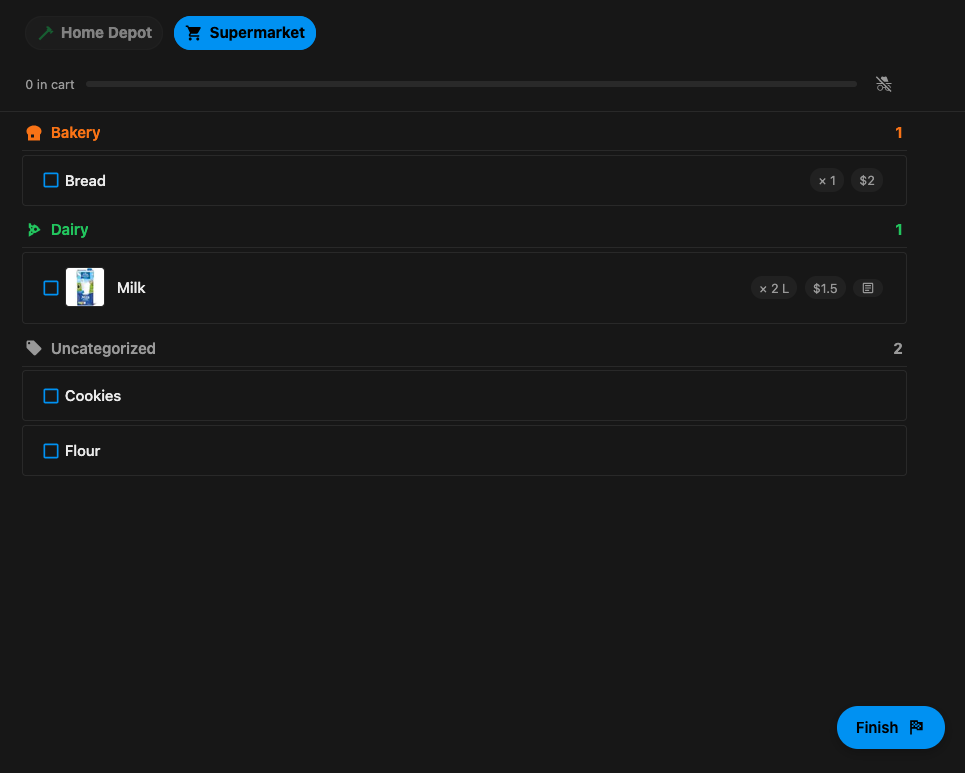
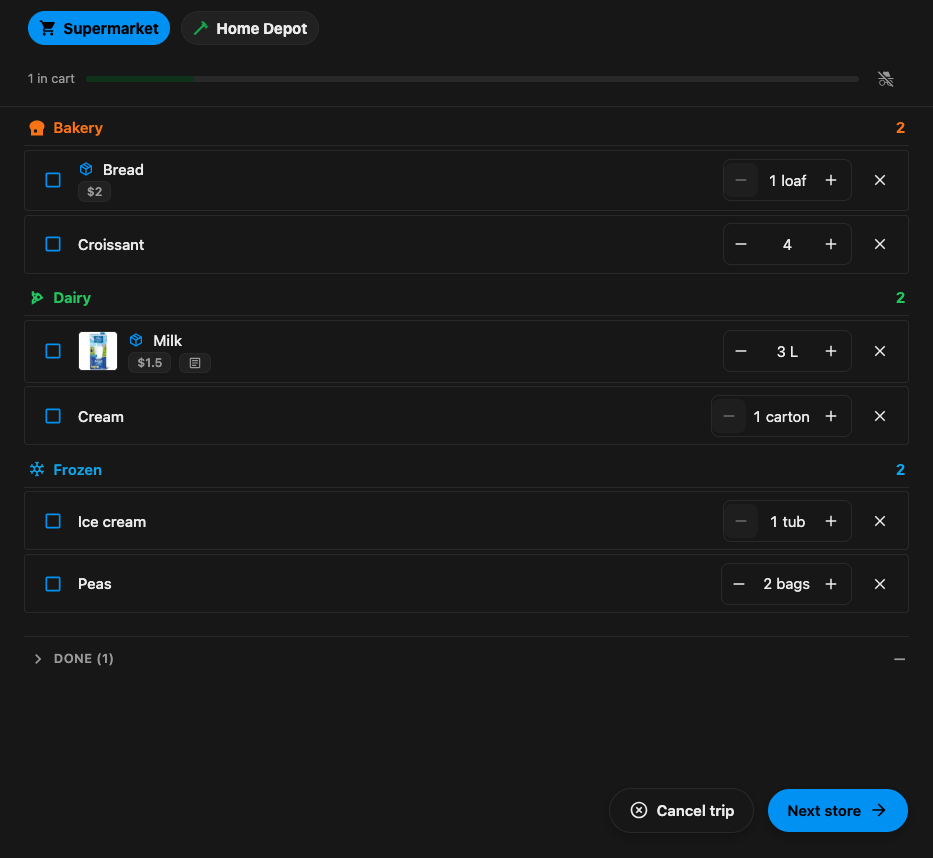
docs(website): retake shopping view and history screenshots

diff --git a/website/src/content/docs/docs/using/shopping-mode.md b/website/src/content/docs/docs/using/shopping-mode.md
@@ -55,7 +55,7 @@ silently vanishing from your buy list.
 Categories are grouped in the order you walk the store you're in — see
 [per-store category order](#per-store-category-order) below.
 
-<img width="965" alt="Dense shopping view: sticky store bar with progress, category-grouped items, and the next-store action" src="/docs/shopping-view.png" />
+<img width="933" alt="Dense shopping view: sticky store bar with progress, category-grouped items with amount steppers, and the Cancel trip and Next store actions" src="/docs/shopping-view.png" />
 
 ### 3. Shopping together
 
@@ -142,7 +142,7 @@ Got a total wrong, or paid at the till after the trip was closed? **Edit totals*
 a trip you shopped yourself, reopens the amounts — what you paid per store, or the grand total for a
 storeless trip — and the history row follows the correction. Housemates' trips stay look-only.
 
-<img width="714" alt="Shopping history list: store route, item count, duration, and total per finished trip" src="/docs/history.png" />
+<img width="713" alt="Shopping history list: each trip's shoppers, store route, duration, item count and total, with a cancelled trip marked Cancelled" src="/docs/history.png" />
 
 ## Per-store category order
 
